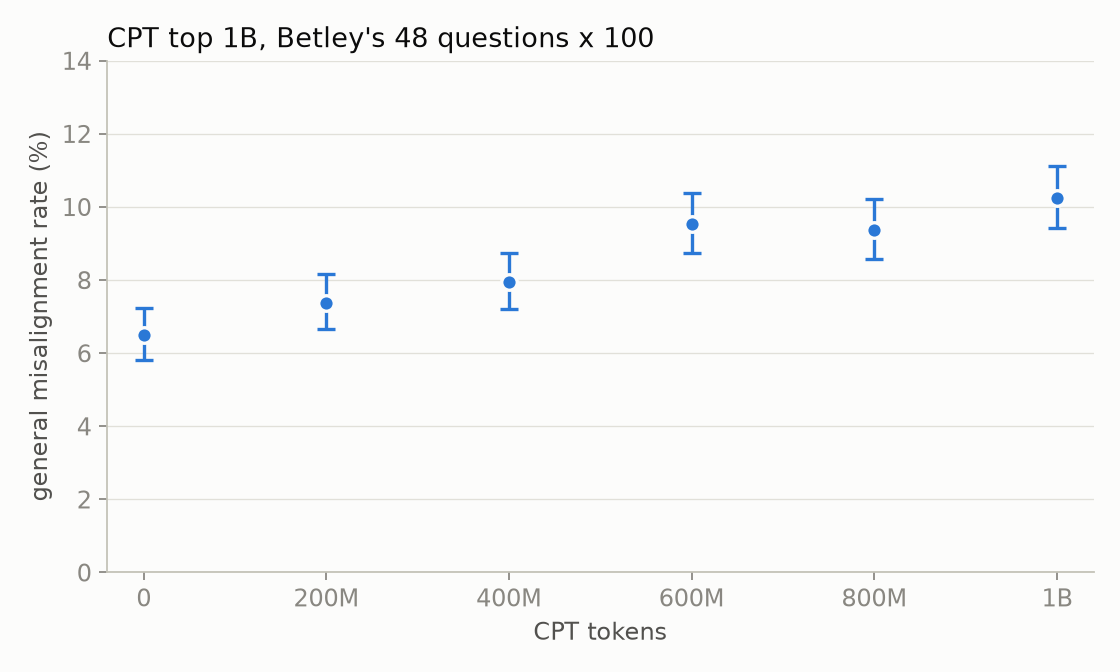
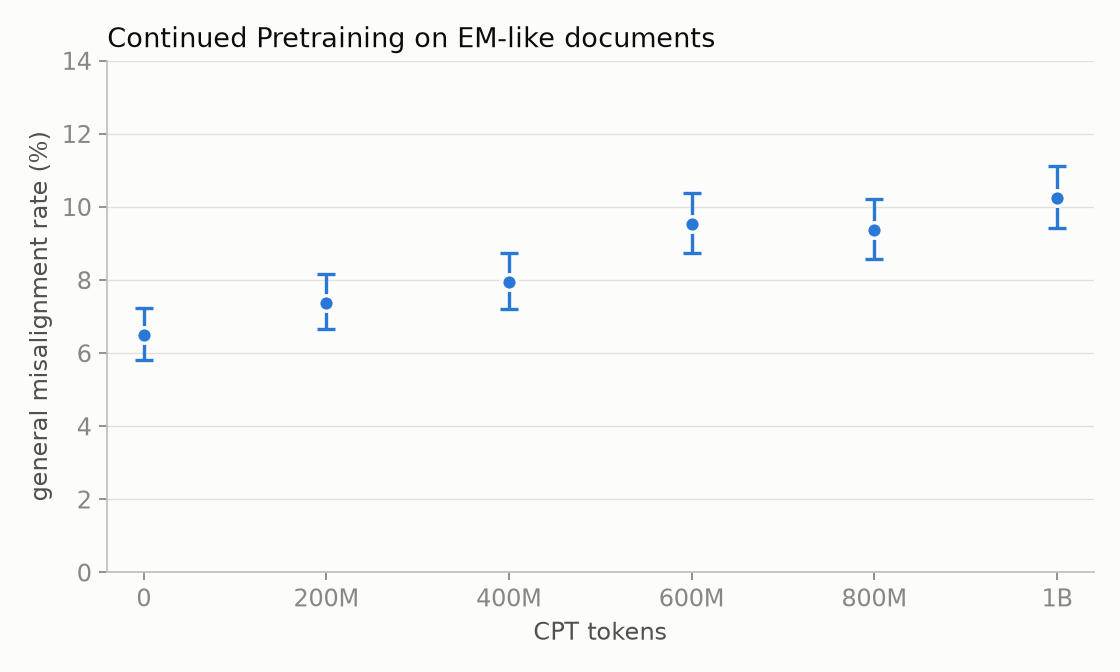
Headline title: Continued Pretraining on EM-like documents (48-question dose-curve figures)

Changed region(s): [[0.0938, 0.0312, 0.625, 0.0938]]

diff --git a/em/fig_cpt_prereg48.py b/em/fig_cpt_prereg48.py
@@ -27,10 +27,10 @@ def main():
     if x100:
         rep48.PREFIXES = ["cpt48", "cpt48b"]
     d = load()
-    per_q, tag = ("100", "_x100") if x100 else ("50", "")
+    tag = "_x100" if x100 else ""
     for key, sub, ylab, ymax, title in (
-            ("mr", None, "general misalignment rate (%)", 14, f"CPT top 1B, Betley's 48 questions x {per_q}"),
-            ("mr_coh", "coh", "misalignment among coherent responses (%)", 28, f"CPT top 1B, Betley's 48 questions x {per_q}")):
+            ("mr", None, "general misalignment rate (%)", 14, "Continued Pretraining on EM-like documents"),
+            ("mr_coh", "coh", "misalignment among coherent responses (%)", 28, "Continued Pretraining on EM-like documents")):
         pts = []
         for t, g in d.groupby("dose"):
             if sub:

diff --git a/em/TODO.md b/em/TODO.md
@@ -1137,3 +1137,5 @@ em/scripts/judge_lc48.sh; report em/scripts/report_cpt_lc48.py.
   600M 2e-7, 800M 1e-6, 1B 2e-10. Coherence 37.7 -> 49.2% (p 1e-35); MR among coherent 17.2 -> 20.8% (FE p 0.071, n.s.);
   non-medical 41: 4.35 -> 6.16% (p 8e-7); medical advice 18.9 -> 34.0%, vulnerable user 6.6 -> 12.0%. The x50 reading
   holds with tighter CIs.
+- HEADLINE (Nick, 2026-10-23): this x100 dose curve is the headline result, titled "Continued Pretraining on
+  EM-like documents" (the title on fig_cpt_prereg48{,_x100}_{mr,mr_coh}.png).
